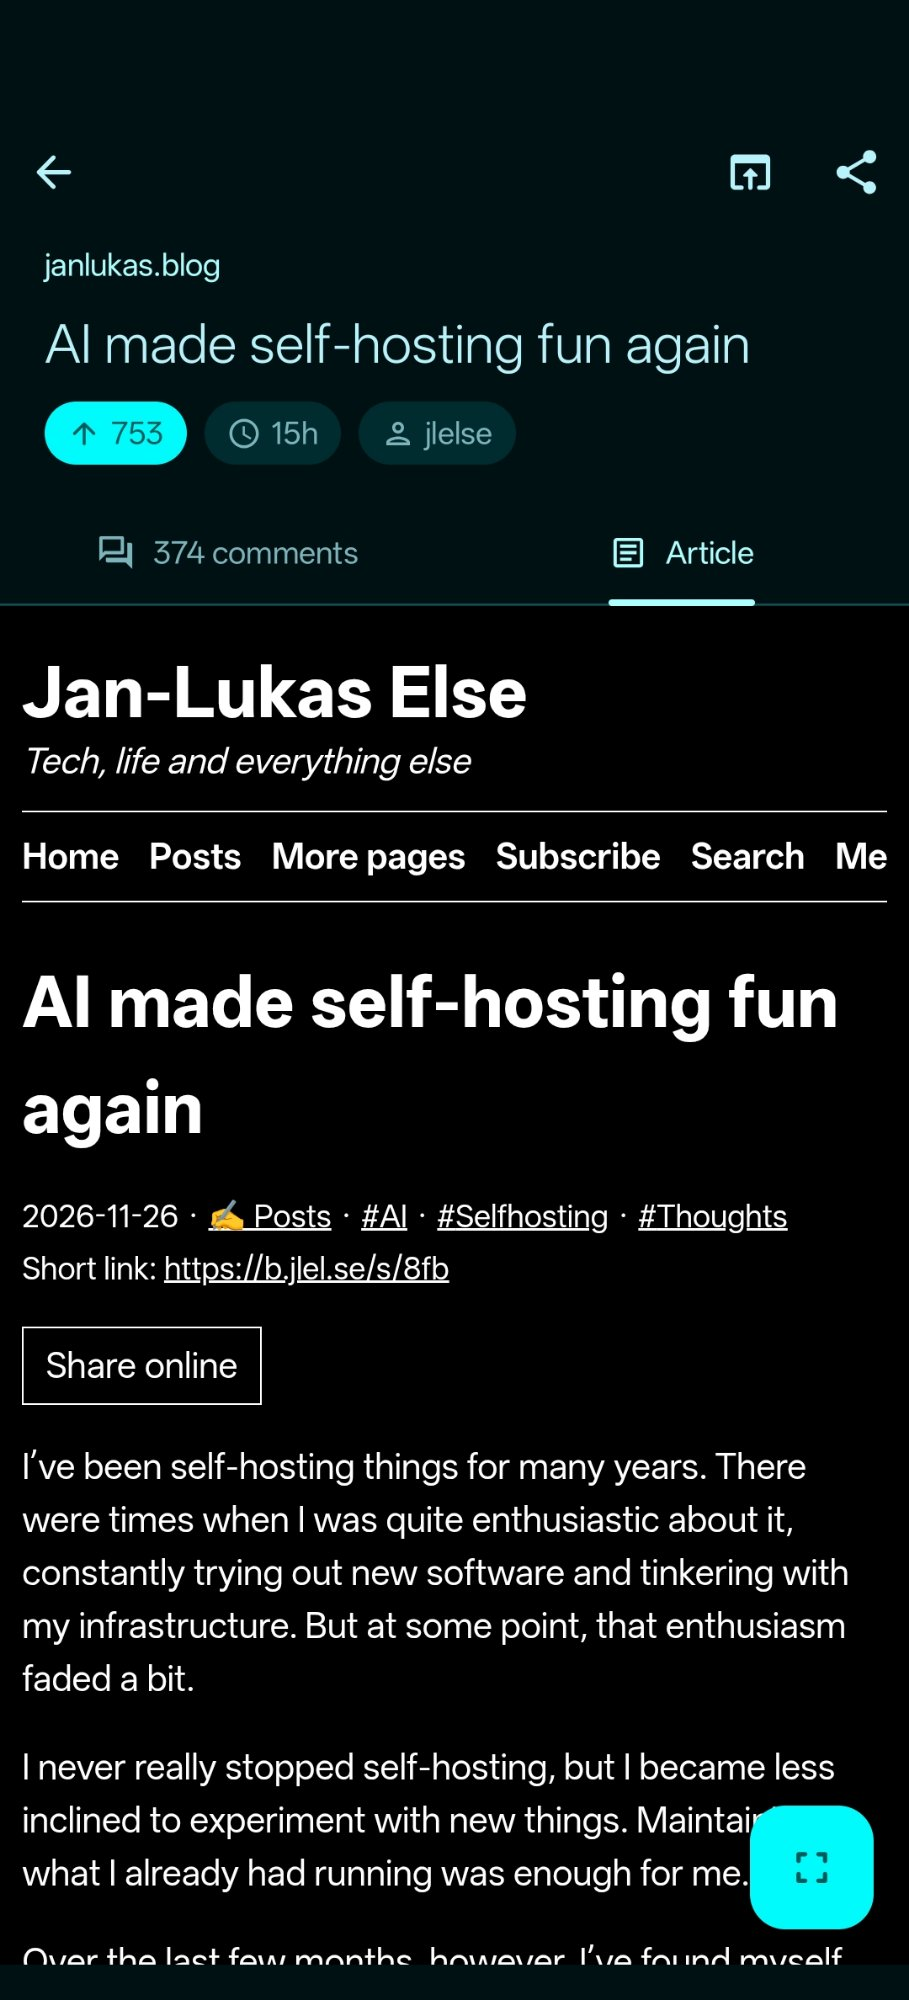
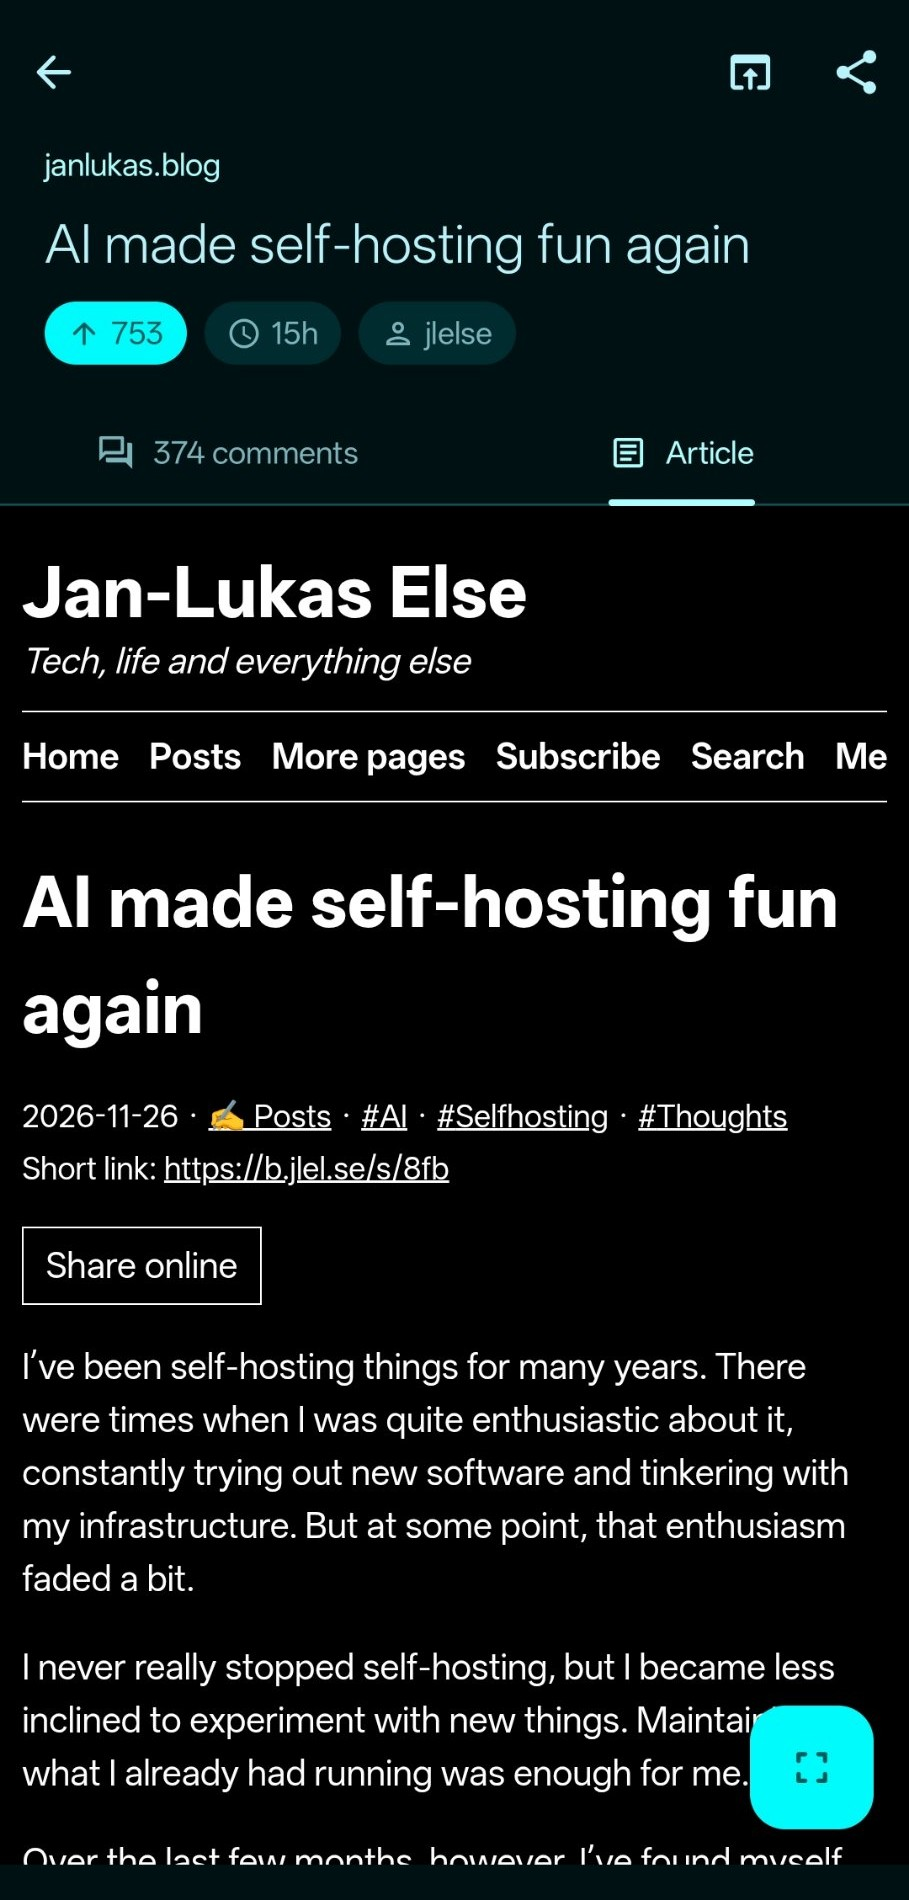
README: center the header and captions, trim the empty strip above the screenshots

diff --git a/README.md b/README.md
@@ -1,4 +1,4 @@
-<h3><img src="docs/icon.svg" width="48" align="middle" alt="hn2">&nbsp; A fast, modern Hacker News reader for Android</h3>
+<h3><img src="docs/icon.svg" width="48" align="absmiddle" alt="hn2">&nbsp; A fast, modern Hacker News reader for Android</h3>
 
 <a href="https://github.com/ndom91/android-hn/releases/latest/download/hn2-debug.apk"><img src="https://img.shields.io/badge/Download-APK-FF6A3D?style=for-the-badge&logo=android&logoColor=white" alt="Download APK"></a>
 
@@ -18,9 +18,9 @@ article and comments view, and rebuilds everything else with Material You.
     <td align="center" width="33%"><img src="docs/screenshots/article.jpg" alt="An article open in the in-app browser"></td>
   </tr>
   <tr>
-    <td align="center"><sub>Top stories on your home screen</sub></td>
-    <td align="center"><sub>Threaded comments</sub></td>
-    <td align="center"><sub>The article, one swipe away</sub></td>
+    <td align="center" valign="middle"><small>Top stories on your home screen</small></td>
+    <td align="center" valign="middle"><small>Threaded comments</small></td>
+    <td align="center" valign="middle"><small>The article, one swipe away</small></td>
   </tr>
 </table>
 
